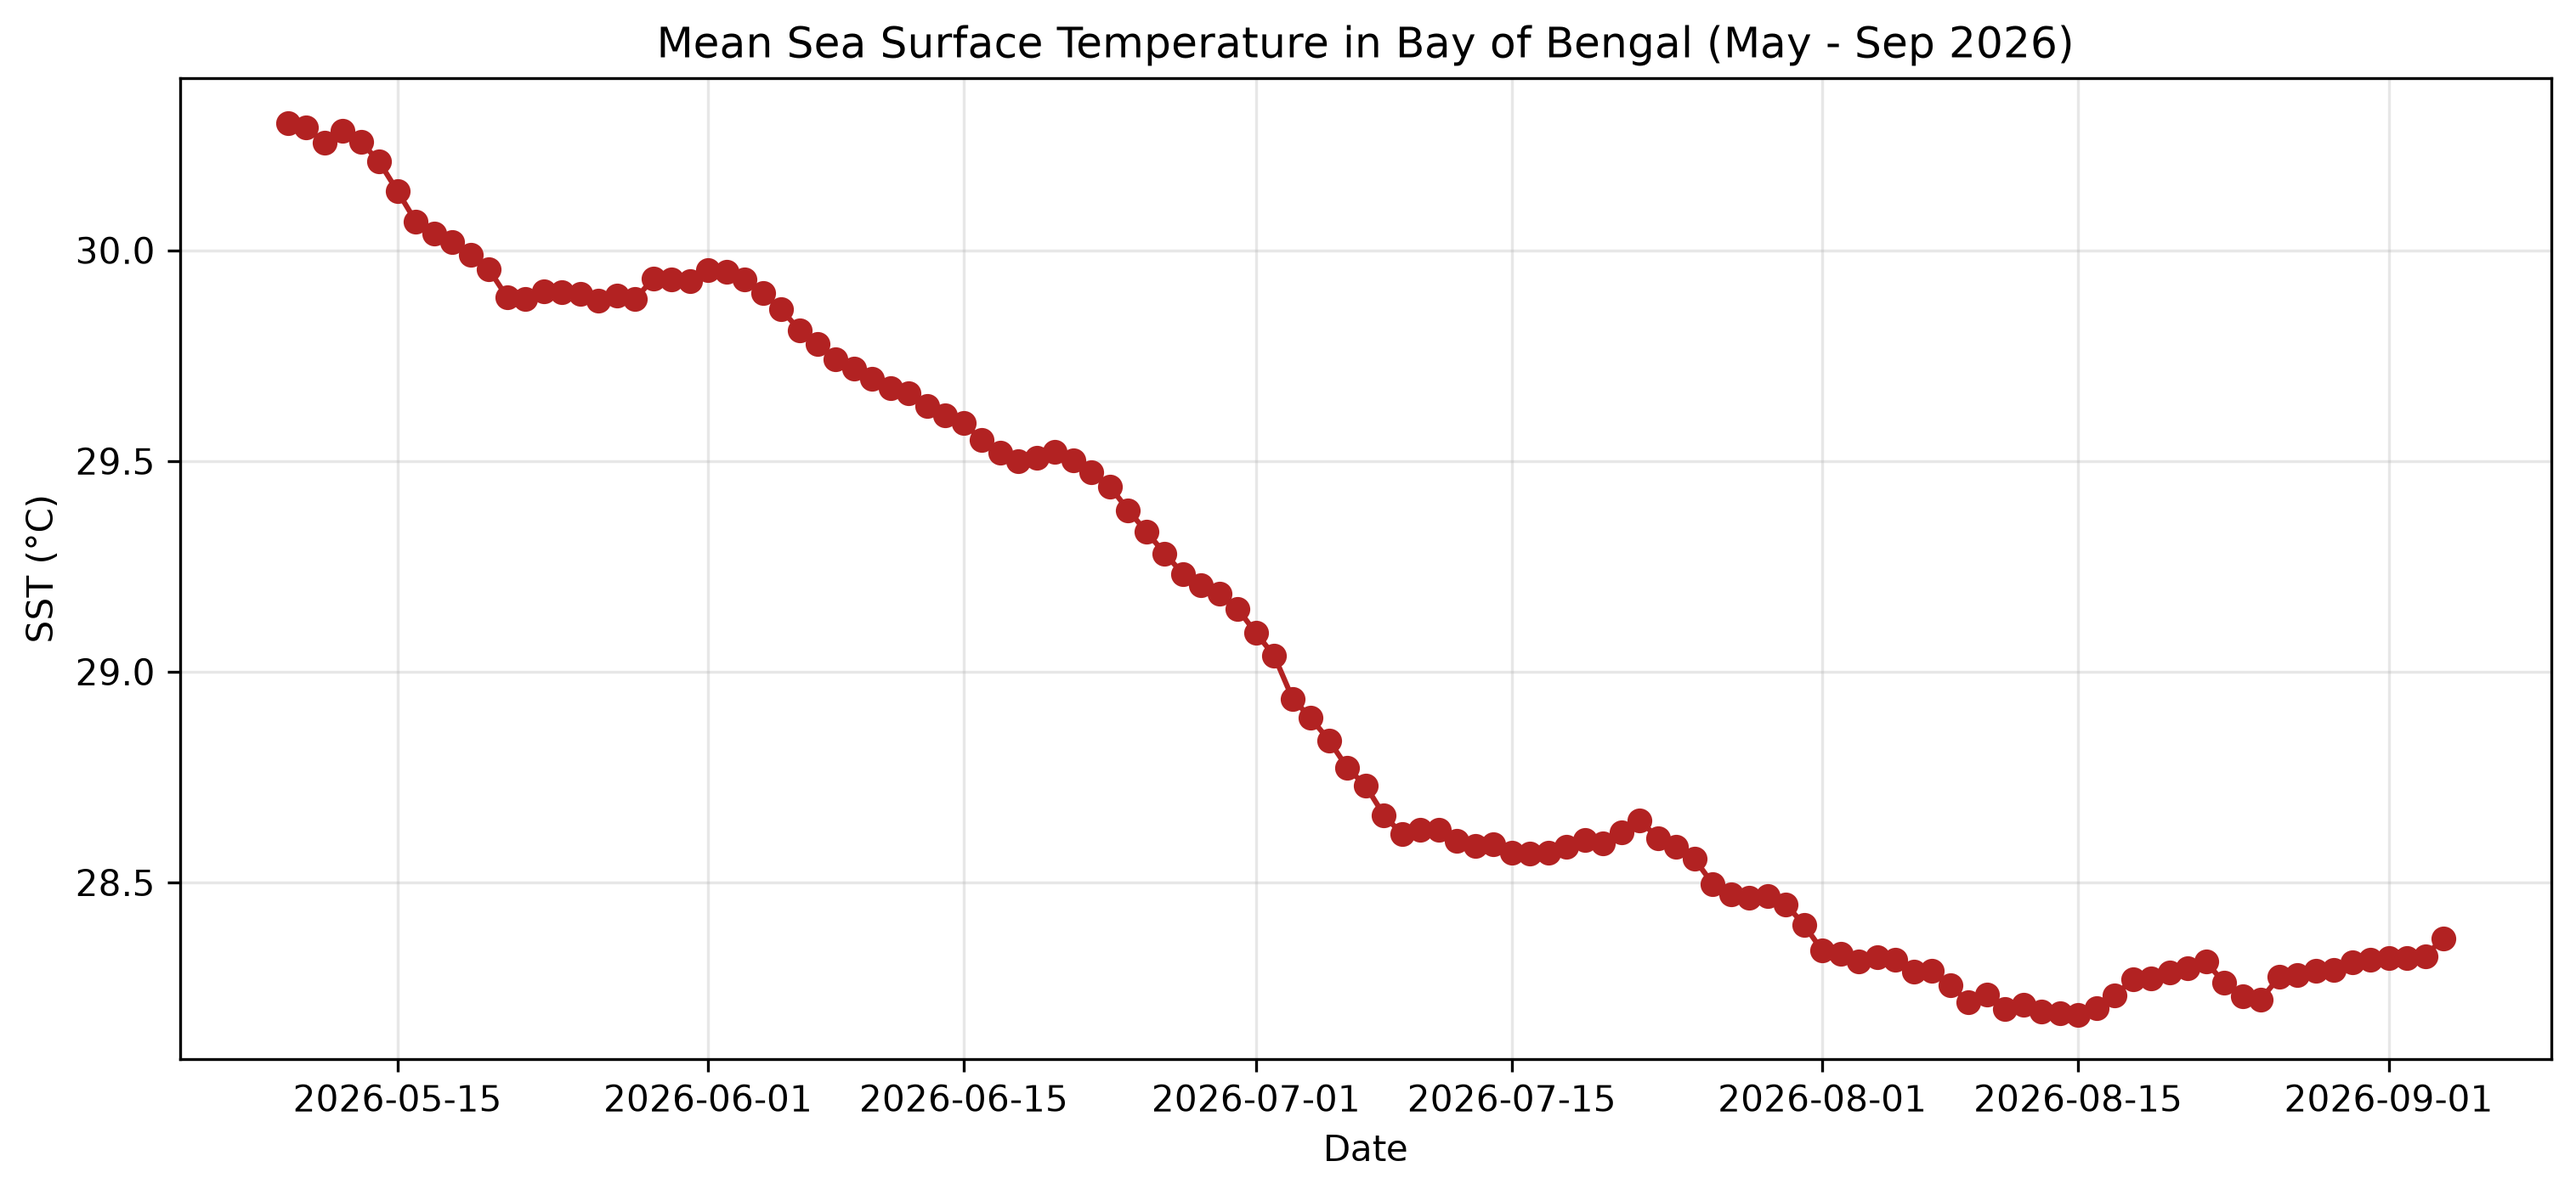
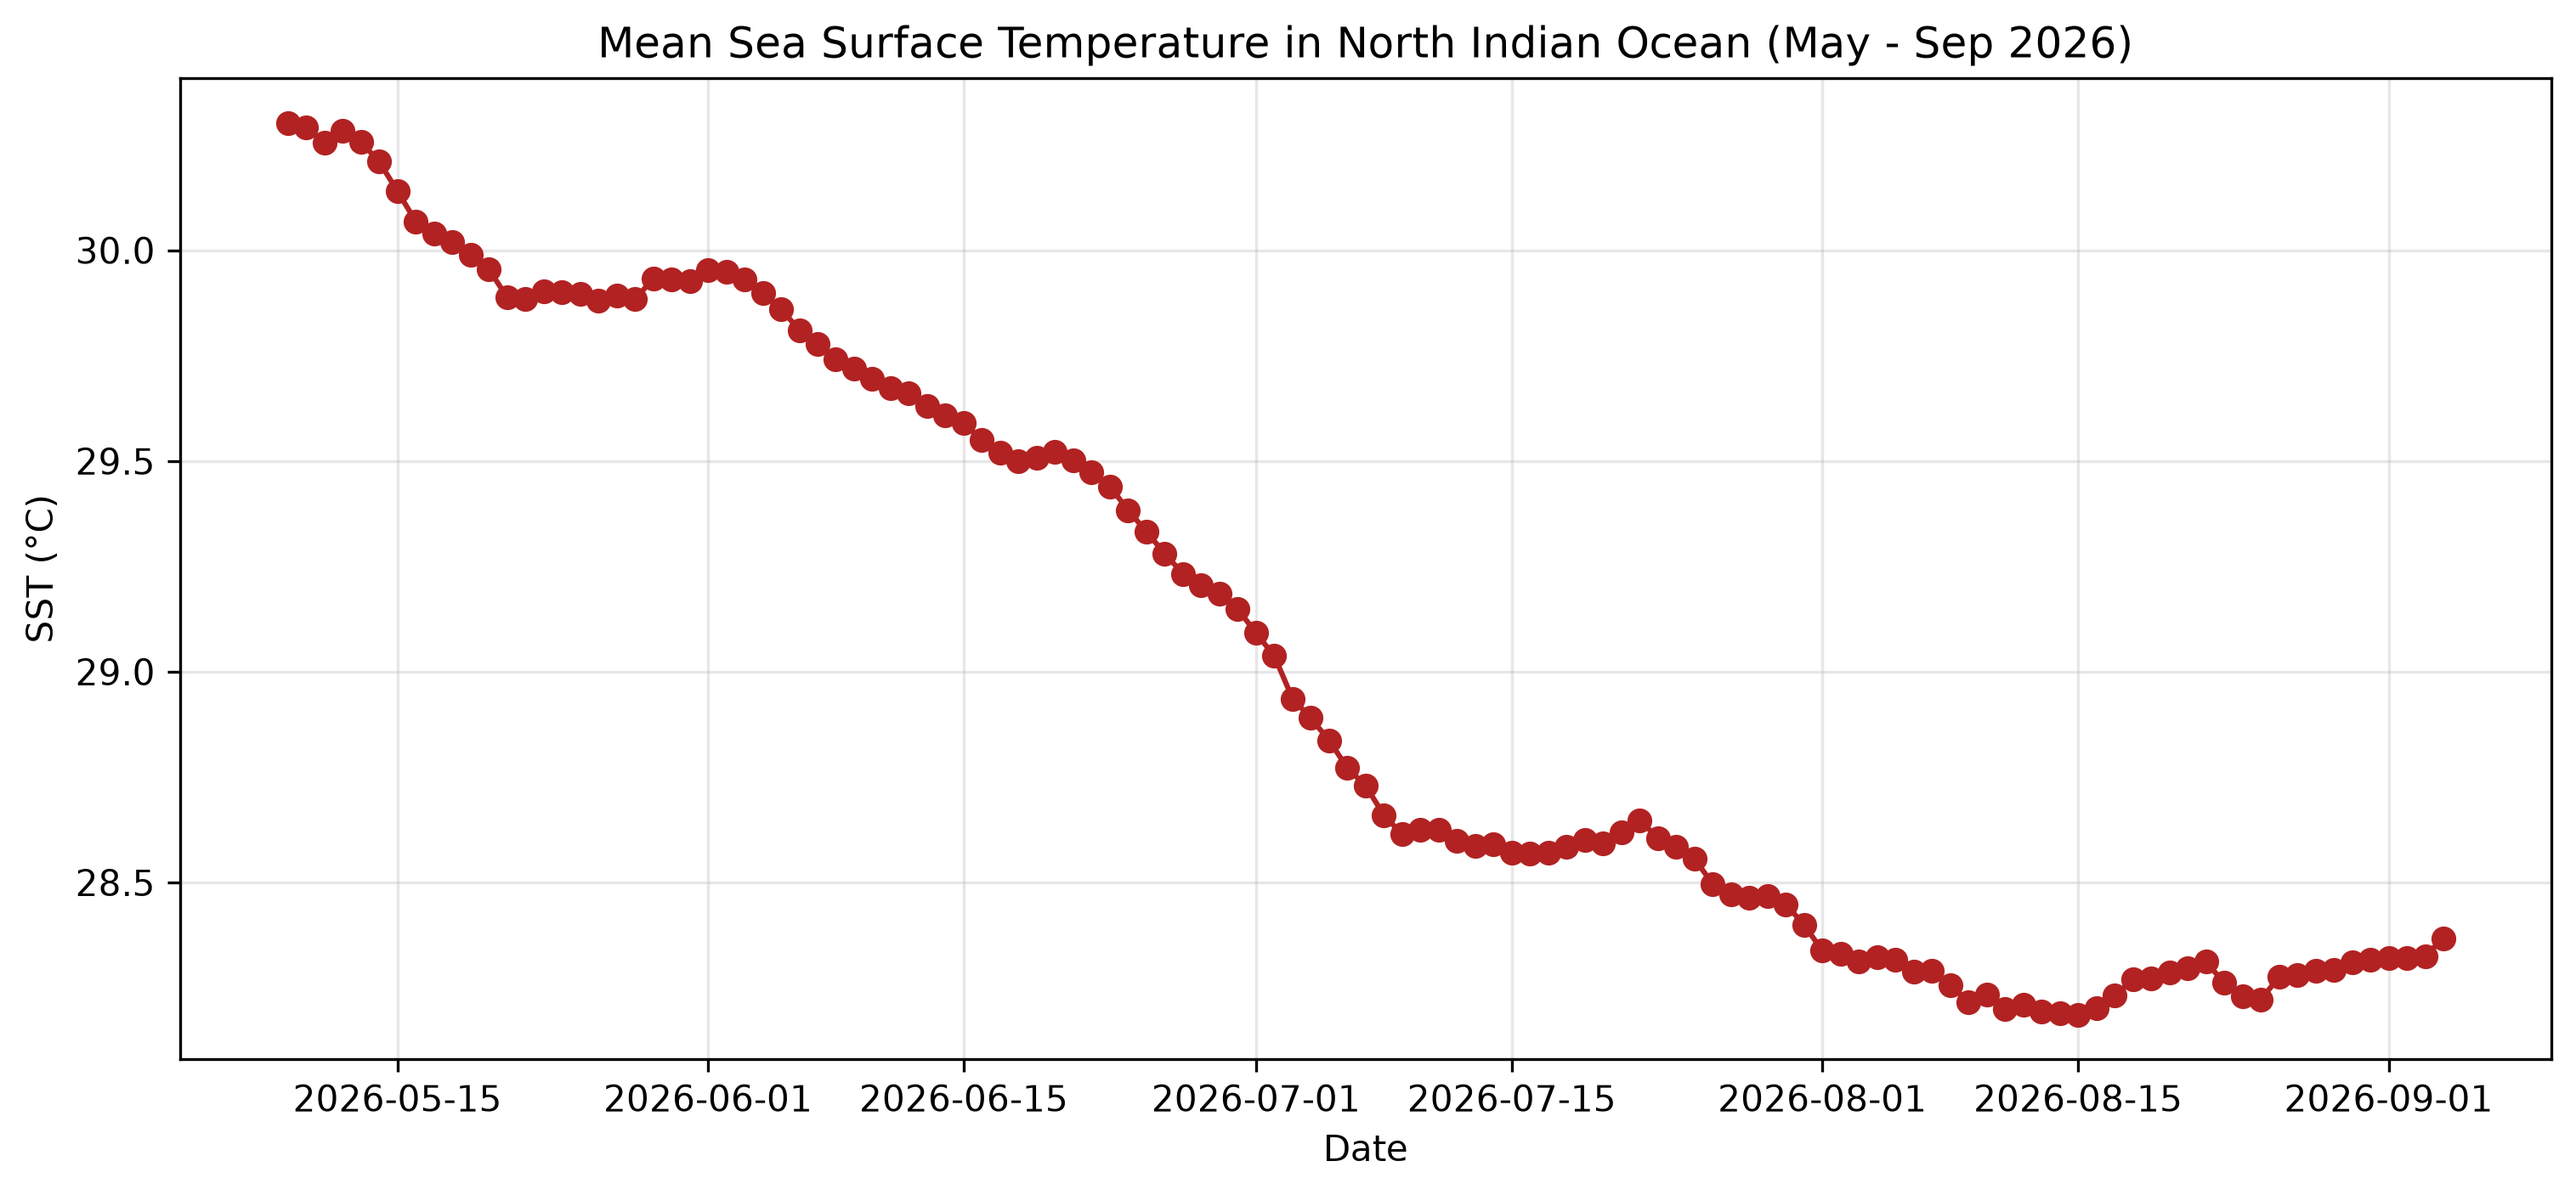
chore(ml): correct geographic terminology to North Indian Ocean in EDA plots and handoff

Changed region(s): [[0.2171, 0.0, 0.8373, 0.0611]]

diff --git a/backend/ml/scripts/eda_analysis.py b/backend/ml/scripts/eda_analysis.py
@@ -24,7 +24,7 @@ def run_eda():
     ts_df = df.groupby('time')['sst_celsius'].mean().reset_index()
     plt.figure(figsize=(12, 5))
     plt.plot(ts_df['time'], ts_df['sst_celsius'], marker='o', linestyle='-', color='firebrick')
-    plt.title("Mean Sea Surface Temperature in Bay of Bengal (May - Sep 2026)")
+    plt.title("Mean Sea Surface Temperature in North Indian Ocean (May - Sep 2026)")
     plt.xlabel("Date")
     plt.ylabel("SST (°C)")
     plt.grid(True, alpha=0.3)
@@ -38,7 +38,7 @@ def run_eda():
     scatter = plt.scatter(spatial_df['longitude'], spatial_df['latitude'], 
                           c=spatial_df['sst_celsius'], cmap='viridis', s=15, marker='s')
     plt.colorbar(scatter, label='Mean SST (°C)')
-    plt.title("Mean Spatial SST Distribution (Bay of Bengal)")
+    plt.title("Mean Spatial SST Distribution (North Indian Ocean)")
     plt.xlabel("Longitude (°E)")
     plt.ylabel("Latitude (°N)")
     plt.savefig(os.path.join(OUT_DIR, "sst_spatial_map.png"), dpi=300, bbox_inches='tight')
@@ -52,7 +52,7 @@ def run_eda():
     plt.quiver(wind_sub['longitude'], wind_sub['latitude'], 
                wind_sub['eastward_wind'], wind_sub['northward_wind'], 
                color='dodgerblue', scale=50)
-    plt.title("Mean Wind Vector Map (Bay of Bengal)")
+    plt.title("Mean Wind Vector Map (North Indian Ocean)")
     plt.xlabel("Longitude (°E)")
     plt.ylabel("Latitude (°N)")
     plt.savefig(os.path.join(OUT_DIR, "wind_vector_map.png"), dpi=300, bbox_inches='tight')

diff --git a/backend/ml/HANDOFF.md b/backend/ml/HANDOFF.md
@@ -3,7 +3,7 @@
 **To: Person 2 (FastAPI & Integration)**
 **From: Person 1 (ML & Data)**
 
-The ML pipeline is officially complete and the model has been trained on the raw NetCDF datasets for the Bay of Bengal domain (5°N–30°N, 45°E–105°E).
+The ML pipeline is officially complete and the model has been trained on the raw NetCDF datasets for the North Indian Ocean domain (5°N–30°N, 45°E–105°E).
 
 ### 1. The Model
 Due to strict temporal mismatch in the provided satellite files (SSH ended before Wind began, and Wind is an extremely sparse L3 orbital product), the ML problem was strictly defined as **Autoregressive Forecasting of Sea Surface Temperature (SST)**. 
